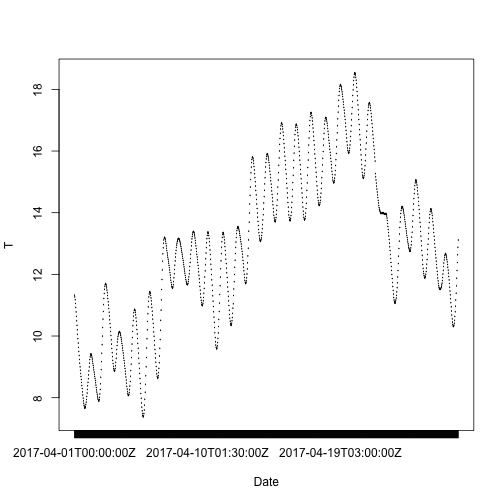
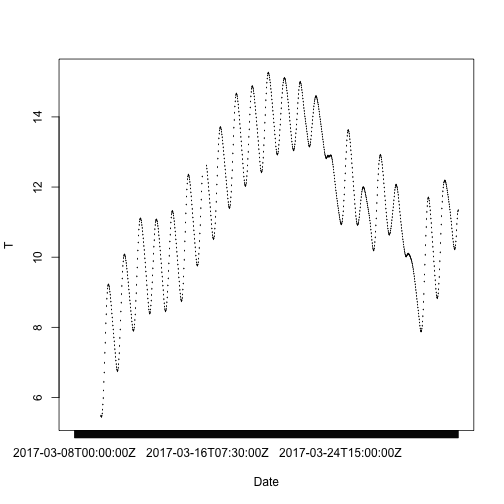
fix for basic v expanded in soil data

diff --git a/_posts/NEON-API/2017-07-23-NEON_API_ESA_2017.md b/_posts/NEON-API/2017-07-23-NEON_API_ESA_2017.md
@@ -130,7 +130,7 @@ JSON-formatted data returned by APIs:
     req
 
     ## Response [http://data.neonscience.org/api/v0/products/DP1.10003.001]
-    ##   Date: 2017-08-04 20:45
+    ##   Date: 2017-08-04 22:32
     ##   Status: 200
     ##   Content-Type: application/json;charset=UTF-8
     ##   Size: 7.18 kB
@@ -779,21 +779,21 @@ available at the Woodworth (WOOD) site.
     ## 14   7280
     ## 15   2553
     ##                                                                                                                                                                                                                                                                                                                                                                                                                                                                                   url
-    ## 1                          https://neon-prod-pub-1.s3.data.neonscience.org/NEON.DOM.SITE.DP1.10003.001/PROV/WOOD/20150701T000000--20150801T000000/basic/NEON.D09.WOOD.DP1.10003.001.variables.20170720T182547Z.csv?X-Amz-Algorithm=AWS4-HMAC-SHA256&X-Amz-Date=20170804T204554Z&X-Amz-SignedHeaders=host&X-Amz-Expires=3600&X-Amz-Credential=pub-internal-read%2F20170804%2Fdata%2Fs3%2Faws4_request&X-Amz-Signature=22fc3308d56758b4a766dc561a4748604bc23db5be45b475355d19817d1fd42f
-    ## 2        https://neon-prod-pub-1.s3.data.neonscience.org/NEON.DOM.SITE.DP1.10003.001/PROV/WOOD/20150701T000000--20150801T000000/basic/NEON.D09.WOOD.DP1.10003.001.brd_countdata.2015-07.basic.20170720T182547Z.csv?X-Amz-Algorithm=AWS4-HMAC-SHA256&X-Amz-Date=20170804T204554Z&X-Amz-SignedHeaders=host&X-Amz-Expires=3599&X-Amz-Credential=pub-internal-read%2F20170804%2Fdata%2Fs3%2Faws4_request&X-Amz-Signature=9e0f2215be001f8547a8e01a040e18956c781c38f863164bd465faca5c45a275
-    ## 3                                                       https://neon-prod-pub-1.s3.data.neonscience.org/NEON.DOM.SITE.DP1.10003.001/PROV/WOOD/20150701T000000--20150801T000000/basic/NEON.DP1.10003.001_readme.txt?X-Amz-Algorithm=AWS4-HMAC-SHA256&X-Amz-Date=20170804T204554Z&X-Amz-SignedHeaders=host&X-Amz-Expires=3600&X-Amz-Credential=pub-internal-read%2F20170804%2Fdata%2Fs3%2Faws4_request&X-Amz-Signature=415c3028d7a85cffb369eedbeeffbb647e0a1f75068184baa55d41460fc30689
-    ## 4                         https://neon-prod-pub-1.s3.data.neonscience.org/NEON.DOM.SITE.DP1.10003.001/PROV/WOOD/20150701T000000--20150801T000000/basic/NEON.D09.WOOD.DP0.10003.001.validation.20170720T182547Z.csv?X-Amz-Algorithm=AWS4-HMAC-SHA256&X-Amz-Date=20170804T204554Z&X-Amz-SignedHeaders=host&X-Amz-Expires=3600&X-Amz-Credential=pub-internal-read%2F20170804%2Fdata%2Fs3%2Faws4_request&X-Amz-Signature=59d1bd8c23fd48e8312ca9b5803162231f447885438f60bb7db4d6a272a005c3
-    ## 5         https://neon-prod-pub-1.s3.data.neonscience.org/NEON.DOM.SITE.DP1.10003.001/PROV/WOOD/20150701T000000--20150801T000000/basic/NEON.D09.WOOD.DP1.10003.001.brd_perpoint.2015-07.basic.20170720T182547Z.csv?X-Amz-Algorithm=AWS4-HMAC-SHA256&X-Amz-Date=20170804T204554Z&X-Amz-SignedHeaders=host&X-Amz-Expires=3600&X-Amz-Credential=pub-internal-read%2F20170804%2Fdata%2Fs3%2Faws4_request&X-Amz-Signature=44349a6909fe4abfbb7848798d3c2f62a7e35e2eb3e5d651faf5c53c77dfaebf
-    ## 6                                   https://neon-prod-pub-1.s3.data.neonscience.org/NEON.DOM.SITE.DP1.10003.001/PROV/WOOD/20150701T000000--20150801T000000/basic/NEON.D09.WOOD.DP1.10003.001.20150101-20160613.xml?X-Amz-Algorithm=AWS4-HMAC-SHA256&X-Amz-Date=20170804T204554Z&X-Amz-SignedHeaders=host&X-Amz-Expires=3600&X-Amz-Credential=pub-internal-read%2F20170804%2Fdata%2Fs3%2Faws4_request&X-Amz-Signature=f3d6766bcd43e7be4287c479160e61374b8f11f586014243ebeb21902e192d66
-    ## 7                      https://neon-prod-pub-1.s3.data.neonscience.org/NEON.DOM.SITE.DP1.10003.001/PROV/WOOD/20150701T000000--20150801T000000/basic/NEON.D09.WOOD.DP1.10003.001.2015-07.basic.20170720T182547Z.zip?X-Amz-Algorithm=AWS4-HMAC-SHA256&X-Amz-Date=20170804T204554Z&X-Amz-SignedHeaders=host&X-Amz-Expires=3600&X-Amz-Credential=pub-internal-read%2F20170804%2Fdata%2Fs3%2Faws4_request&X-Amz-Signature=2c786d5af88065f3cb5f6e3c1205af1366aa445b70ca5cb0109b7730bda4fafe
-    ## 8                      https://neon-prod-pub-1.s3.data.neonscience.org/NEON.DOM.SITE.DP1.10003.001/PROV/WOOD/20150701T000000--20150801T000000/expanded/NEON.D09.WOOD.DP0.10003.001.validation.20170720T182547Z.csv?X-Amz-Algorithm=AWS4-HMAC-SHA256&X-Amz-Date=20170804T204554Z&X-Amz-SignedHeaders=host&X-Amz-Expires=3600&X-Amz-Credential=pub-internal-read%2F20170804%2Fdata%2Fs3%2Faws4_request&X-Amz-Signature=17e668e889a93b502e7c0e96e9b3e0ebd18d9b364b84ed60a0e42eaef14618f1
-    ## 9  https://neon-prod-pub-1.s3.data.neonscience.org/NEON.DOM.SITE.DP1.10003.001/PROV/WOOD/20150701T000000--20150801T000000/expanded/NEON.D09.WOOD.DP1.10003.001.brd_countdata.2015-07.expanded.20170720T182547Z.csv?X-Amz-Algorithm=AWS4-HMAC-SHA256&X-Amz-Date=20170804T204554Z&X-Amz-SignedHeaders=host&X-Amz-Expires=3600&X-Amz-Credential=pub-internal-read%2F20170804%2Fdata%2Fs3%2Faws4_request&X-Amz-Signature=1f3f5b7ca66bbb406fa8c98370117722ca271955c55414542a6db7b7a09744a1
-    ## 10                               https://neon-prod-pub-1.s3.data.neonscience.org/NEON.DOM.SITE.DP1.10003.001/PROV/WOOD/20150701T000000--20150801T000000/expanded/NEON.D09.WOOD.DP1.10003.001.20150101-20160613.xml?X-Amz-Algorithm=AWS4-HMAC-SHA256&X-Amz-Date=20170804T204554Z&X-Amz-SignedHeaders=host&X-Amz-Expires=3599&X-Amz-Credential=pub-internal-read%2F20170804%2Fdata%2Fs3%2Faws4_request&X-Amz-Signature=d29055b039cbafdd4633aa05e35f886f6dd96586e55072c8def7d503be04c9e7
-    ## 11               https://neon-prod-pub-1.s3.data.neonscience.org/NEON.DOM.SITE.DP1.10003.001/PROV/WOOD/20150701T000000--20150801T000000/expanded/NEON.D09.WOOD.DP1.10003.001.2015-07.expanded.20170720T182547Z.zip?X-Amz-Algorithm=AWS4-HMAC-SHA256&X-Amz-Date=20170804T204554Z&X-Amz-SignedHeaders=host&X-Amz-Expires=3600&X-Amz-Credential=pub-internal-read%2F20170804%2Fdata%2Fs3%2Faws4_request&X-Amz-Signature=c35f564035a2136b2f577e22f37e2b29fef4755cc0641c6eed0576c6b3eb7980
-    ## 12  https://neon-prod-pub-1.s3.data.neonscience.org/NEON.DOM.SITE.DP1.10003.001/PROV/WOOD/20150701T000000--20150801T000000/expanded/NEON.D09.WOOD.DP1.10003.001.brd_perpoint.2015-07.expanded.20170720T182547Z.csv?X-Amz-Algorithm=AWS4-HMAC-SHA256&X-Amz-Date=20170804T204554Z&X-Amz-SignedHeaders=host&X-Amz-Expires=3600&X-Amz-Credential=pub-internal-read%2F20170804%2Fdata%2Fs3%2Faws4_request&X-Amz-Signature=0fcf6d548d61b73e3c979b25711ffbda67c9956e1df48cb1bd1e7a07679daa5c
-    ## 13                                                   https://neon-prod-pub-1.s3.data.neonscience.org/NEON.DOM.SITE.DP1.10003.001/PROV/WOOD/20150701T000000--20150801T000000/expanded/NEON.DP1.10003.001_readme.txt?X-Amz-Algorithm=AWS4-HMAC-SHA256&X-Amz-Date=20170804T204554Z&X-Amz-SignedHeaders=host&X-Amz-Expires=3600&X-Amz-Credential=pub-internal-read%2F20170804%2Fdata%2Fs3%2Faws4_request&X-Amz-Signature=c8020c93a5125aa5c8e3fc031b6cda708acc5fb368f5d1f9394f23677ada47ac
-    ## 14                      https://neon-prod-pub-1.s3.data.neonscience.org/NEON.DOM.SITE.DP1.10003.001/PROV/WOOD/20150701T000000--20150801T000000/expanded/NEON.D09.WOOD.DP1.10003.001.variables.20170720T182547Z.csv?X-Amz-Algorithm=AWS4-HMAC-SHA256&X-Amz-Date=20170804T204554Z&X-Amz-SignedHeaders=host&X-Amz-Expires=3600&X-Amz-Credential=pub-internal-read%2F20170804%2Fdata%2Fs3%2Faws4_request&X-Amz-Signature=a1276cba5d85ecee1ac0be0d619b9ceff297ae533fe91cdac88c54e902ef7912
-    ## 15                  https://neon-prod-pub-1.s3.data.neonscience.org/NEON.DOM.SITE.DP1.10003.001/PROV/WOOD/20150701T000000--20150801T000000/expanded/NEON.Bird%20Conservancy%20of%20the%20Rockies.brd_personnel.csv?X-Amz-Algorithm=AWS4-HMAC-SHA256&X-Amz-Date=20170804T204554Z&X-Amz-SignedHeaders=host&X-Amz-Expires=3600&X-Amz-Credential=pub-internal-read%2F20170804%2Fdata%2Fs3%2Faws4_request&X-Amz-Signature=c399880462d747644765186b57cabccb7f66d0661e36e18d4d33d80f8952b663
+    ## 1                          https://neon-prod-pub-1.s3.data.neonscience.org/NEON.DOM.SITE.DP1.10003.001/PROV/WOOD/20150701T000000--20150801T000000/basic/NEON.D09.WOOD.DP1.10003.001.variables.20170720T182547Z.csv?X-Amz-Algorithm=AWS4-HMAC-SHA256&X-Amz-Date=20170804T223204Z&X-Amz-SignedHeaders=host&X-Amz-Expires=3600&X-Amz-Credential=pub-internal-read%2F20170804%2Fdata%2Fs3%2Faws4_request&X-Amz-Signature=915fd75066bedd397cd7224bde6f8875367f94d72a6b4e5c1a6cbef38248745f
+    ## 2        https://neon-prod-pub-1.s3.data.neonscience.org/NEON.DOM.SITE.DP1.10003.001/PROV/WOOD/20150701T000000--20150801T000000/basic/NEON.D09.WOOD.DP1.10003.001.brd_countdata.2015-07.basic.20170720T182547Z.csv?X-Amz-Algorithm=AWS4-HMAC-SHA256&X-Amz-Date=20170804T223204Z&X-Amz-SignedHeaders=host&X-Amz-Expires=3600&X-Amz-Credential=pub-internal-read%2F20170804%2Fdata%2Fs3%2Faws4_request&X-Amz-Signature=6181bf1ea9f1cec4cf3e6aee3e47666fffa0629c1a4ef19265d5aae67f4d4691
+    ## 3                                                       https://neon-prod-pub-1.s3.data.neonscience.org/NEON.DOM.SITE.DP1.10003.001/PROV/WOOD/20150701T000000--20150801T000000/basic/NEON.DP1.10003.001_readme.txt?X-Amz-Algorithm=AWS4-HMAC-SHA256&X-Amz-Date=20170804T223204Z&X-Amz-SignedHeaders=host&X-Amz-Expires=3600&X-Amz-Credential=pub-internal-read%2F20170804%2Fdata%2Fs3%2Faws4_request&X-Amz-Signature=016ab64cb35dbee17612b728010aeb7f9156a3593325338be53ef6762c6ece56
+    ## 4                         https://neon-prod-pub-1.s3.data.neonscience.org/NEON.DOM.SITE.DP1.10003.001/PROV/WOOD/20150701T000000--20150801T000000/basic/NEON.D09.WOOD.DP0.10003.001.validation.20170720T182547Z.csv?X-Amz-Algorithm=AWS4-HMAC-SHA256&X-Amz-Date=20170804T223204Z&X-Amz-SignedHeaders=host&X-Amz-Expires=3600&X-Amz-Credential=pub-internal-read%2F20170804%2Fdata%2Fs3%2Faws4_request&X-Amz-Signature=fa8266d2e972033294bb31a528692ab0608f2195ec98db8b206f4d8184edda9e
+    ## 5         https://neon-prod-pub-1.s3.data.neonscience.org/NEON.DOM.SITE.DP1.10003.001/PROV/WOOD/20150701T000000--20150801T000000/basic/NEON.D09.WOOD.DP1.10003.001.brd_perpoint.2015-07.basic.20170720T182547Z.csv?X-Amz-Algorithm=AWS4-HMAC-SHA256&X-Amz-Date=20170804T223204Z&X-Amz-SignedHeaders=host&X-Amz-Expires=3600&X-Amz-Credential=pub-internal-read%2F20170804%2Fdata%2Fs3%2Faws4_request&X-Amz-Signature=74f39c56cd999e8b20f5cc56213b6b05c4c7333ec19f7b3ad6eebaa24d9819af
+    ## 6                                   https://neon-prod-pub-1.s3.data.neonscience.org/NEON.DOM.SITE.DP1.10003.001/PROV/WOOD/20150701T000000--20150801T000000/basic/NEON.D09.WOOD.DP1.10003.001.20150101-20160613.xml?X-Amz-Algorithm=AWS4-HMAC-SHA256&X-Amz-Date=20170804T223204Z&X-Amz-SignedHeaders=host&X-Amz-Expires=3600&X-Amz-Credential=pub-internal-read%2F20170804%2Fdata%2Fs3%2Faws4_request&X-Amz-Signature=f45ba2caafdaa3e284a6eef1308a5ec04e853f3d89a27576875373d5903531fc
+    ## 7                      https://neon-prod-pub-1.s3.data.neonscience.org/NEON.DOM.SITE.DP1.10003.001/PROV/WOOD/20150701T000000--20150801T000000/basic/NEON.D09.WOOD.DP1.10003.001.2015-07.basic.20170720T182547Z.zip?X-Amz-Algorithm=AWS4-HMAC-SHA256&X-Amz-Date=20170804T223204Z&X-Amz-SignedHeaders=host&X-Amz-Expires=3600&X-Amz-Credential=pub-internal-read%2F20170804%2Fdata%2Fs3%2Faws4_request&X-Amz-Signature=d0fb89ad62c240ffc1b33caa7bf0a7b5b1909798193b835731e6f8ddacecc3e3
+    ## 8                      https://neon-prod-pub-1.s3.data.neonscience.org/NEON.DOM.SITE.DP1.10003.001/PROV/WOOD/20150701T000000--20150801T000000/expanded/NEON.D09.WOOD.DP0.10003.001.validation.20170720T182547Z.csv?X-Amz-Algorithm=AWS4-HMAC-SHA256&X-Amz-Date=20170804T223204Z&X-Amz-SignedHeaders=host&X-Amz-Expires=3600&X-Amz-Credential=pub-internal-read%2F20170804%2Fdata%2Fs3%2Faws4_request&X-Amz-Signature=75b38eb3868f0fde809d0161eae648e99bc6c203e54f3a13512a57c31ce8e860
+    ## 9  https://neon-prod-pub-1.s3.data.neonscience.org/NEON.DOM.SITE.DP1.10003.001/PROV/WOOD/20150701T000000--20150801T000000/expanded/NEON.D09.WOOD.DP1.10003.001.brd_countdata.2015-07.expanded.20170720T182547Z.csv?X-Amz-Algorithm=AWS4-HMAC-SHA256&X-Amz-Date=20170804T223204Z&X-Amz-SignedHeaders=host&X-Amz-Expires=3600&X-Amz-Credential=pub-internal-read%2F20170804%2Fdata%2Fs3%2Faws4_request&X-Amz-Signature=ec96d0b8f028c34fc7010958ce892063c2dd628542146147b068e21a00678eb1
+    ## 10                               https://neon-prod-pub-1.s3.data.neonscience.org/NEON.DOM.SITE.DP1.10003.001/PROV/WOOD/20150701T000000--20150801T000000/expanded/NEON.D09.WOOD.DP1.10003.001.20150101-20160613.xml?X-Amz-Algorithm=AWS4-HMAC-SHA256&X-Amz-Date=20170804T223204Z&X-Amz-SignedHeaders=host&X-Amz-Expires=3600&X-Amz-Credential=pub-internal-read%2F20170804%2Fdata%2Fs3%2Faws4_request&X-Amz-Signature=cb948443ab45f0933f145859ab61b62c50c70efe3d11557a9077e9dc80f38924
+    ## 11               https://neon-prod-pub-1.s3.data.neonscience.org/NEON.DOM.SITE.DP1.10003.001/PROV/WOOD/20150701T000000--20150801T000000/expanded/NEON.D09.WOOD.DP1.10003.001.2015-07.expanded.20170720T182547Z.zip?X-Amz-Algorithm=AWS4-HMAC-SHA256&X-Amz-Date=20170804T223204Z&X-Amz-SignedHeaders=host&X-Amz-Expires=3600&X-Amz-Credential=pub-internal-read%2F20170804%2Fdata%2Fs3%2Faws4_request&X-Amz-Signature=ff2ab46e7518d7cc3aa2903acd28575f8ebe8290ee291796583d0f3c5d70aef5
+    ## 12  https://neon-prod-pub-1.s3.data.neonscience.org/NEON.DOM.SITE.DP1.10003.001/PROV/WOOD/20150701T000000--20150801T000000/expanded/NEON.D09.WOOD.DP1.10003.001.brd_perpoint.2015-07.expanded.20170720T182547Z.csv?X-Amz-Algorithm=AWS4-HMAC-SHA256&X-Amz-Date=20170804T223204Z&X-Amz-SignedHeaders=host&X-Amz-Expires=3600&X-Amz-Credential=pub-internal-read%2F20170804%2Fdata%2Fs3%2Faws4_request&X-Amz-Signature=c0819253603bacab5342be09826402de8b656288499c798e2407c2bff9981f1b
+    ## 13                                                   https://neon-prod-pub-1.s3.data.neonscience.org/NEON.DOM.SITE.DP1.10003.001/PROV/WOOD/20150701T000000--20150801T000000/expanded/NEON.DP1.10003.001_readme.txt?X-Amz-Algorithm=AWS4-HMAC-SHA256&X-Amz-Date=20170804T223204Z&X-Amz-SignedHeaders=host&X-Amz-Expires=3599&X-Amz-Credential=pub-internal-read%2F20170804%2Fdata%2Fs3%2Faws4_request&X-Amz-Signature=d68f9aeb21f4dcafbd42811be908330c60794a07a1b3d576b2622c7075c5a0f4
+    ## 14                      https://neon-prod-pub-1.s3.data.neonscience.org/NEON.DOM.SITE.DP1.10003.001/PROV/WOOD/20150701T000000--20150801T000000/expanded/NEON.D09.WOOD.DP1.10003.001.variables.20170720T182547Z.csv?X-Amz-Algorithm=AWS4-HMAC-SHA256&X-Amz-Date=20170804T223204Z&X-Amz-SignedHeaders=host&X-Amz-Expires=3600&X-Amz-Credential=pub-internal-read%2F20170804%2Fdata%2Fs3%2Faws4_request&X-Amz-Signature=805c79fff121432c61f2b37b6321c37567806cb5f0a0a6334f5aeb10ccc13912
+    ## 15                  https://neon-prod-pub-1.s3.data.neonscience.org/NEON.DOM.SITE.DP1.10003.001/PROV/WOOD/20150701T000000--20150801T000000/expanded/NEON.Bird%20Conservancy%20of%20the%20Rockies.brd_personnel.csv?X-Amz-Algorithm=AWS4-HMAC-SHA256&X-Amz-Date=20170804T223204Z&X-Amz-SignedHeaders=host&X-Amz-Expires=3600&X-Amz-Credential=pub-internal-read%2F20170804%2Fdata%2Fs3%2Faws4_request&X-Amz-Signature=1a78ccb32795feef690bd3dffe2bcd0edd5dd9e3d58c9040eb787518ae4a1f14
 
 And now we have the names of the files available for this site and 
 month, and URLs where we can get the files. We'll use 
@@ -870,110 +870,198 @@ Just to prove the files we pulled have actual data in them, a quick graphic:
 
 ## Instrumentation data
 The process is essentially the same for sensor data. We'll do the same series of 
-queries for Soil temperature, DP1.00041.001, and get data from Moab in April.
+queries for Soil temperature, DP1.00041.001, and get data from Moab in March.
 
 
     req.soil <- GET("http://data.neonscience.org/api/v0/products/DP1.00041.001")
     avail.soil <- fromJSON(content(req.soil, as="text"), simplifyDataFrame=T, flatten=T)
     temp.urls <- unlist(avail.soil$data$siteCodes$availableDataUrls)
-    tmp <- GET(temp.urls[grep("MOAB/2017-04", temp.urls)])
-
-    ## Error: length(url) == 1 is not TRUE
-
+    tmp <- GET(temp.urls[grep("MOAB/2017-03", temp.urls)])
     tmp.files <- fromJSON(content(tmp, as="text"))
     tmp.files$data$files$name
 
-    ##  [1] "NEON.D13.MOAB.DP1.00041.001.00000.005.509.001.ST_1_minute.csv" 
-    ##  [2] "NEON.D13.MOAB.DP1.00041.001.00000.005.504.030.ST_30_minute.csv"
-    ##  [3] "NEON.D13.MOAB.DP1.00041.001.00000.003.508.001.ST_1_minute.csv" 
-    ##  [4] "NEON.D13.MOAB.DP1.00041.001.00000.004.507.030.ST_30_minute.csv"
-    ##  [5] "NEON.D13.MOAB.DP1.00041.001.00000.003.501.030.ST_30_minute.csv"
-    ##  [6] "NEON.D13.MOAB.DP1.00041.001.00000.002.509.001.ST_1_minute.csv" 
-    ##  [7] "NEON.D13.MOAB.DP1.00041.001.00000.004.502.030.ST_30_minute.csv"
-    ##  [8] "NEON.D13.MOAB.DP1.00041.001.00000.002.507.001.ST_1_minute.csv" 
-    ##  [9] "NEON.D13.MOAB.DP1.00041.001.00000.004.504.030.ST_30_minute.csv"
-    ## [10] "NEON.D13.MOAB.DP1.00041.001.00000.004.508.030.ST_30_minute.csv"
-    ## [11] "NEON.D13.MOAB.DP1.00041.001.00000.004.503.030.ST_30_minute.csv"
-    ## [12] "NEON.D13.MOAB.DP1.00041.001.00000.003.504.030.ST_30_minute.csv"
-    ## [13] "NEON.D13.MOAB.DP1.00041.001.00000.002.507.030.ST_30_minute.csv"
-    ## [14] "NEON.D13.MOAB.DP1.00041.001.00000.003.502.030.ST_30_minute.csv"
-    ## [15] "NEON.D13.MOAB.DP1.00041.001.00000.001.509.030.ST_30_minute.csv"
-    ## [16] "NEON.D13.MOAB.DP1.00041.001.00000.005.508.001.ST_1_minute.csv" 
-    ## [17] "NEON.D13.MOAB.DP1.00041.001.00000.004.506.030.ST_30_minute.csv"
-    ## [18] "NEON.D13.MOAB.DP1.00041.001.00000.003.506.001.ST_1_minute.csv" 
-    ## [19] "NEON.D13.MOAB.DP1.00041.001.00000.003.504.001.ST_1_minute.csv" 
-    ## [20] "NEON.D13.MOAB.DP1.00041.001.00000.003.501.001.ST_1_minute.csv" 
-    ## [21] "NEON.D13.MOAB.DP1.00041.001.00000.004.506.001.ST_1_minute.csv" 
-    ## [22] "NEON.D13.MOAB.DP1.00041.001.00000.003.506.030.ST_30_minute.csv"
-    ## [23] "NEON.D13.MOAB.DP1.00041.001.00000.004.501.030.ST_30_minute.csv"
-    ## [24] "NEON.D13.MOAB.DP1.00041.001.00000.001.504.030.ST_30_minute.csv"
-    ## [25] "NEON.D13.MOAB.DP1.00041.001.00000.005.504.001.ST_1_minute.csv" 
-    ## [26] "NEON.D13.MOAB.DP1.00041.001.20170401-20170501.xml"             
-    ## [27] "NEON.D13.MOAB.DP1.00041.001.00000.001.507.030.ST_30_minute.csv"
-    ## [28] "NEON.D13.MOAB.DP1.00041.001.00000.003.509.030.ST_30_minute.csv"
-    ## [29] "NEON.D13.MOAB.DP1.00041.001.00000.004.504.001.ST_1_minute.csv" 
-    ## [30] "NEON.D13.MOAB.DP1.00041.001.00000.002.506.001.ST_1_minute.csv" 
-    ## [31] "NEON.D13.MOAB.DP1.00041.001.00000.003.502.001.ST_1_minute.csv" 
-    ## [32] "NEON.D13.MOAB.DP1.00041.001.00000.003.509.001.ST_1_minute.csv" 
-    ## [33] "NEON.D13.MOAB.DP1.00041.001.00000.002.509.030.ST_30_minute.csv"
-    ## [34] "NEON.D13.MOAB.DP1.00041.001.00000.001.501.030.ST_30_minute.csv"
-    ## [35] "NEON.D13.MOAB.DP1.00041.001.00000.004.505.030.ST_30_minute.csv"
-    ## [36] "NEON.D13.MOAB.DP1.00041.001.00000.005.503.030.ST_30_minute.csv"
-    ## [37] "NEON.D13.MOAB.DP1.00041.001.00000.003.503.001.ST_1_minute.csv" 
-    ## [38] "NEON.D13.MOAB.DP1.00041.001.00000.003.507.001.ST_1_minute.csv" 
-    ## [39] "NEON.D13.MOAB.DP1.00041.001.00000.002.505.030.ST_30_minute.csv"
-    ## [40] "NEON.D13.MOAB.DP1.00041.001.00000.002.508.001.ST_1_minute.csv" 
-    ## [41] "NEON.D13.MOAB.DP1.00041.001.00000.001.507.001.ST_1_minute.csv" 
-    ## [42] "NEON.D13.MOAB.DP1.00041.001.00000.002.504.030.ST_30_minute.csv"
-    ## [43] "NEON.D13.MOAB.DP1.00041.001.00000.005.502.001.ST_1_minute.csv" 
-    ## [44] "NEON.D13.MOAB.DP1.00041.001.00000.002.502.030.ST_30_minute.csv"
-    ## [45] "NEON.D13.MOAB.DP1.00041.001.00000.002.503.030.ST_30_minute.csv"
-    ## [46] "NEON.D13.MOAB.DP1.00041.001.00000.004.509.030.ST_30_minute.csv"
-    ## [47] "NEON.D13.MOAB.DP1.00041.001.00000.005.502.030.ST_30_minute.csv"
-    ## [48] "NEON.D13.MOAB.DP1.00041.001.00000.002.501.030.ST_30_minute.csv"
-    ## [49] "NEON.D13.MOAB.DP1.00041.001.00000.003.505.030.ST_30_minute.csv"
-    ## [50] "NEON.D13.MOAB.DP1.00041.001.00000.002.506.030.ST_30_minute.csv"
-    ## [51] "NEON.D13.MOAB.DP1.00041.001.00000.003.505.001.ST_1_minute.csv" 
-    ## [52] "NEON.D13.MOAB.DP1.00041.001.00000.001.508.001.ST_1_minute.csv" 
-    ## [53] "NEON.D13.MOAB.DP1.00041.001.00000.001.505.001.ST_1_minute.csv" 
-    ## [54] "NEON.D13.MOAB.DP1.00041.001.00000.004.509.001.ST_1_minute.csv" 
-    ## [55] "NEON.D13.MOAB.DP1.00041.001.00000.002.503.001.ST_1_minute.csv" 
-    ## [56] "NEON.D13.MOAB.DP1.00041.001.00000.001.503.030.ST_30_minute.csv"
-    ## [57] "NEON.D13.MOAB.DP1.00041.001.00000.005.505.001.ST_1_minute.csv" 
-    ## [58] "NEON.D13.MOAB.DP1.00041.001.00000.005.508.030.ST_30_minute.csv"
-    ## [59] "NEON.D13.MOAB.DP1.00041.001.00000.005.506.030.ST_30_minute.csv"
-    ## [60] "NEON.D13.MOAB.DP1.00041.001.00000.004.507.001.ST_1_minute.csv" 
-    ## [61] "NEON.D13.MOAB.DP1.00041.001.00000.002.501.001.ST_1_minute.csv" 
-    ## [62] "NEON.D13.MOAB.DP1.00041.001.00000.005.503.001.ST_1_minute.csv" 
-    ## [63] "NEON.D13.MOAB.DP1.00041.001.00000.001.502.030.ST_30_minute.csv"
-    ## [64] "NEON.D13.MOAB.DP1.00041.001.00000.005.501.030.ST_30_minute.csv"
-    ## [65] "NEON.D13.MOAB.DP1.00041.001.00000.002.508.030.ST_30_minute.csv"
-    ## [66] "NEON.D13.MOAB.DP1.00041.001.00000.001.505.030.ST_30_minute.csv"
-    ## [67] "NEON.D13.MOAB.DP1.00041.001.00000.004.505.001.ST_1_minute.csv" 
-    ## [68] "NEON.D13.MOAB.DP1.00041.001.00000.005.501.001.ST_1_minute.csv" 
-    ## [69] "NEON.D13.MOAB.DP1.00041.001.00000.004.503.001.ST_1_minute.csv" 
-    ## [70] "NEON.D13.MOAB.DP1.00041.001.00000.003.507.030.ST_30_minute.csv"
-    ## [71] "NEON.D13.MOAB.DP1.00041.001.00000.002.502.001.ST_1_minute.csv" 
-    ## [72] "NEON.D13.MOAB.DP1.00041.001.00000.002.505.001.ST_1_minute.csv" 
-    ## [73] "NEON.D13.MOAB.DP1.00041.001.00000.004.501.001.ST_1_minute.csv" 
-    ## [74] "NEON.D13.MOAB.DP1.00041.001.00000.005.506.001.ST_1_minute.csv" 
-    ## [75] "NEON.D13.MOAB.DP1.00041.001.00000.001.503.001.ST_1_minute.csv" 
-    ## [76] "NEON.D13.MOAB.DP1.00041.001.00000.002.504.001.ST_1_minute.csv" 
-    ## [77] "NEON.D13.MOAB.DP1.00041.001.00000.003.508.030.ST_30_minute.csv"
-    ## [78] "NEON.D13.MOAB.DP1.00041.001.00000.004.502.001.ST_1_minute.csv" 
-    ## [79] "NEON.D13.MOAB.DP1.00041.001.00000.005.507.001.ST_1_minute.csv" 
-    ## [80] "NEON.D13.MOAB.DP1.00041.001.00000.004.508.001.ST_1_minute.csv" 
-    ## [81] "NEON.D13.MOAB.DP1.00041.001.00000.005.507.030.ST_30_minute.csv"
-    ## [82] "NEON.D13.MOAB.DP1.00041.001.00000.005.509.030.ST_30_minute.csv"
-    ## [83] "NEON.D13.MOAB.DP1.00041.001.00000.001.508.030.ST_30_minute.csv"
-    ## [84] "NEON.D13.MOAB.DP1.00041.001.00000.005.505.030.ST_30_minute.csv"
-    ## [85] "NEON.D13.MOAB.DP1.00041.001.00000.001.504.001.ST_1_minute.csv" 
-    ## [86] "NEON.D13.MOAB.DP1.00041.001.00000.001.502.001.ST_1_minute.csv" 
-    ## [87] "NEON.D13.MOAB.DP1.00041.001.00000.003.503.030.ST_30_minute.csv"
-    ## [88] "NEON.D13.MOAB.DP1.00041.001.00000.001.509.001.ST_1_minute.csv" 
-    ## [89] "NEON.D13.MOAB.DP1.00041.001.00000.001.506.030.ST_30_minute.csv"
-    ## [90] "NEON.D13.MOAB.DP1.00041.001.00000.001.501.001.ST_1_minute.csv" 
-    ## [91] "NEON.D13.MOAB.DP1.00041.001.00000.001.506.001.ST_1_minute.csv"
+    ##   [1] "NEON.D13.MOAB.DP1.00041.001.00000.005.509.001.ST_1_minute.csv" 
+    ##   [2] "NEON.D13.MOAB.DP1.00041.001.00000.005.504.030.ST_30_minute.csv"
+    ##   [3] "NEON.D13.MOAB.DP1.00041.001.00000.003.508.001.ST_1_minute.csv" 
+    ##   [4] "NEON.D13.MOAB.DP1.00041.001.00000.004.507.030.ST_30_minute.csv"
+    ##   [5] "NEON.D13.MOAB.DP1.00041.001.00000.003.501.030.ST_30_minute.csv"
+    ##   [6] "NEON.D13.MOAB.DP1.00041.001.00000.002.509.001.ST_1_minute.csv" 
+    ##   [7] "NEON.D13.MOAB.DP1.00041.001.00000.004.502.030.ST_30_minute.csv"
+    ##   [8] "NEON.D13.MOAB.DP1.00041.001.00000.002.507.001.ST_1_minute.csv" 
+    ##   [9] "NEON.D13.MOAB.DP1.00041.001.00000.004.504.030.ST_30_minute.csv"
+    ##  [10] "NEON.D13.MOAB.DP1.00041.001.00000.004.508.030.ST_30_minute.csv"
+    ##  [11] "NEON.D13.MOAB.DP1.00041.001.00000.004.503.030.ST_30_minute.csv"
+    ##  [12] "NEON.D13.MOAB.DP1.00041.001.00000.003.504.030.ST_30_minute.csv"
+    ##  [13] "NEON.D13.MOAB.DP1.00041.001.00000.002.507.030.ST_30_minute.csv"
+    ##  [14] "NEON.D13.MOAB.DP1.00041.001.00000.003.502.030.ST_30_minute.csv"
+    ##  [15] "NEON.D13.MOAB.DP1.00041.001.00000.001.509.030.ST_30_minute.csv"
+    ##  [16] "NEON.D13.MOAB.DP1.00041.001.00000.005.508.001.ST_1_minute.csv" 
+    ##  [17] "NEON.D13.MOAB.DP1.00041.001.00000.004.506.030.ST_30_minute.csv"
+    ##  [18] "NEON.D13.MOAB.DP1.00041.001.00000.003.506.001.ST_1_minute.csv" 
+    ##  [19] "NEON.D13.MOAB.DP1.00041.001.00000.003.504.001.ST_1_minute.csv" 
+    ##  [20] "NEON.D13.MOAB.DP1.00041.001.00000.003.501.001.ST_1_minute.csv" 
+    ##  [21] "NEON.D13.MOAB.DP1.00041.001.00000.004.506.001.ST_1_minute.csv" 
+    ##  [22] "NEON.D13.MOAB.DP1.00041.001.00000.003.506.030.ST_30_minute.csv"
+    ##  [23] "NEON.D13.MOAB.DP1.00041.001.00000.004.501.030.ST_30_minute.csv"
+    ##  [24] "NEON.D13.MOAB.DP1.00041.001.00000.001.504.030.ST_30_minute.csv"
+    ##  [25] "NEON.D13.MOAB.DP1.00041.001.00000.005.504.001.ST_1_minute.csv" 
+    ##  [26] "NEON.D13.MOAB.DP1.00041.001.00000.001.507.030.ST_30_minute.csv"
+    ##  [27] "NEON.D13.MOAB.DP1.00041.001.00000.003.509.030.ST_30_minute.csv"
+    ##  [28] "NEON.D13.MOAB.DP1.00041.001.00000.004.504.001.ST_1_minute.csv" 
+    ##  [29] "NEON.D13.MOAB.DP1.00041.001.00000.002.506.001.ST_1_minute.csv" 
+    ##  [30] "NEON.D13.MOAB.DP1.00041.001.00000.003.502.001.ST_1_minute.csv" 
+    ##  [31] "NEON.D13.MOAB.DP1.00041.001.00000.003.509.001.ST_1_minute.csv" 
+    ##  [32] "NEON.D13.MOAB.DP1.00041.001.00000.002.509.030.ST_30_minute.csv"
+    ##  [33] "NEON.D13.MOAB.DP1.00041.001.00000.001.501.030.ST_30_minute.csv"
+    ##  [34] "NEON.D13.MOAB.DP1.00041.001.00000.004.505.030.ST_30_minute.csv"
+    ##  [35] "NEON.D13.MOAB.DP1.00041.001.00000.005.503.030.ST_30_minute.csv"
+    ##  [36] "NEON.D13.MOAB.DP1.00041.001.00000.003.503.001.ST_1_minute.csv" 
+    ##  [37] "NEON.D13.MOAB.DP1.00041.001.00000.003.507.001.ST_1_minute.csv" 
+    ##  [38] "NEON.D13.MOAB.DP1.00041.001.00000.002.505.030.ST_30_minute.csv"
+    ##  [39] "NEON.D13.MOAB.DP1.00041.001.00000.002.508.001.ST_1_minute.csv" 
+    ##  [40] "NEON.D13.MOAB.DP1.00041.001.00000.001.507.001.ST_1_minute.csv" 
+    ##  [41] "NEON.D13.MOAB.DP1.00041.001.00000.002.504.030.ST_30_minute.csv"
+    ##  [42] "NEON.D13.MOAB.DP1.00041.001.20170308-20170401.xml"             
+    ##  [43] "NEON.D13.MOAB.DP1.00041.001.00000.005.502.001.ST_1_minute.csv" 
+    ##  [44] "NEON.D13.MOAB.DP1.00041.001.00000.002.502.030.ST_30_minute.csv"
+    ##  [45] "NEON.D13.MOAB.DP1.00041.001.00000.002.503.030.ST_30_minute.csv"
+    ##  [46] "NEON.D13.MOAB.DP1.00041.001.00000.004.509.030.ST_30_minute.csv"
+    ##  [47] "NEON.D13.MOAB.DP1.00041.001.00000.005.502.030.ST_30_minute.csv"
+    ##  [48] "NEON.D13.MOAB.DP1.00041.001.00000.002.501.030.ST_30_minute.csv"
+    ##  [49] "NEON.D13.MOAB.DP1.00041.001.00000.003.505.030.ST_30_minute.csv"
+    ##  [50] "NEON.D13.MOAB.DP1.00041.001.00000.002.506.030.ST_30_minute.csv"
+    ##  [51] "NEON.D13.MOAB.DP1.00041.001.00000.003.505.001.ST_1_minute.csv" 
+    ##  [52] "NEON.D13.MOAB.DP1.00041.001.00000.001.508.001.ST_1_minute.csv" 
+    ##  [53] "NEON.D13.MOAB.DP1.00041.001.00000.001.505.001.ST_1_minute.csv" 
+    ##  [54] "NEON.D13.MOAB.DP1.00041.001.00000.004.509.001.ST_1_minute.csv" 
+    ##  [55] "NEON.D13.MOAB.DP1.00041.001.00000.002.503.001.ST_1_minute.csv" 
+    ##  [56] "NEON.D13.MOAB.DP1.00041.001.00000.001.503.030.ST_30_minute.csv"
+    ##  [57] "NEON.D13.MOAB.DP1.00041.001.00000.005.505.001.ST_1_minute.csv" 
+    ##  [58] "NEON.D13.MOAB.DP1.00041.001.00000.005.508.030.ST_30_minute.csv"
+    ##  [59] "NEON.D13.MOAB.DP1.00041.001.00000.005.506.030.ST_30_minute.csv"
+    ##  [60] "NEON.D13.MOAB.DP1.00041.001.00000.004.507.001.ST_1_minute.csv" 
+    ##  [61] "NEON.D13.MOAB.DP1.00041.001.00000.002.501.001.ST_1_minute.csv" 
+    ##  [62] "NEON.D13.MOAB.DP1.00041.001.00000.005.503.001.ST_1_minute.csv" 
+    ##  [63] "NEON.D13.MOAB.DP1.00041.001.00000.001.502.030.ST_30_minute.csv"
+    ##  [64] "NEON.D13.MOAB.DP1.00041.001.00000.005.501.030.ST_30_minute.csv"
+    ##  [65] "NEON.D13.MOAB.DP1.00041.001.00000.002.508.030.ST_30_minute.csv"
+    ##  [66] "NEON.D13.MOAB.DP1.00041.001.00000.001.505.030.ST_30_minute.csv"
+    ##  [67] "NEON.D13.MOAB.DP1.00041.001.00000.004.505.001.ST_1_minute.csv" 
+    ##  [68] "NEON.D13.MOAB.DP1.00041.001.00000.005.501.001.ST_1_minute.csv" 
+    ##  [69] "NEON.D13.MOAB.DP1.00041.001.00000.004.503.001.ST_1_minute.csv" 
+    ##  [70] "NEON.D13.MOAB.DP1.00041.001.00000.003.507.030.ST_30_minute.csv"
+    ##  [71] "NEON.D13.MOAB.DP1.00041.001.00000.002.502.001.ST_1_minute.csv" 
+    ##  [72] "NEON.D13.MOAB.DP1.00041.001.00000.002.505.001.ST_1_minute.csv" 
+    ##  [73] "NEON.D13.MOAB.DP1.00041.001.00000.004.501.001.ST_1_minute.csv" 
+    ##  [74] "NEON.D13.MOAB.DP1.00041.001.00000.005.506.001.ST_1_minute.csv" 
+    ##  [75] "NEON.D13.MOAB.DP1.00041.001.00000.001.503.001.ST_1_minute.csv" 
+    ##  [76] "NEON.D13.MOAB.DP1.00041.001.00000.002.504.001.ST_1_minute.csv" 
+    ##  [77] "NEON.D13.MOAB.DP1.00041.001.00000.003.508.030.ST_30_minute.csv"
+    ##  [78] "NEON.D13.MOAB.DP1.00041.001.00000.004.502.001.ST_1_minute.csv" 
+    ##  [79] "NEON.D13.MOAB.DP1.00041.001.00000.005.507.001.ST_1_minute.csv" 
+    ##  [80] "NEON.D13.MOAB.DP1.00041.001.00000.004.508.001.ST_1_minute.csv" 
+    ##  [81] "NEON.D13.MOAB.DP1.00041.001.00000.005.507.030.ST_30_minute.csv"
+    ##  [82] "NEON.D13.MOAB.DP1.00041.001.00000.005.509.030.ST_30_minute.csv"
+    ##  [83] "NEON.D13.MOAB.DP1.00041.001.00000.001.508.030.ST_30_minute.csv"
+    ##  [84] "NEON.D13.MOAB.DP1.00041.001.00000.005.505.030.ST_30_minute.csv"
+    ##  [85] "NEON.D13.MOAB.DP1.00041.001.00000.001.504.001.ST_1_minute.csv" 
+    ##  [86] "NEON.D13.MOAB.DP1.00041.001.00000.001.502.001.ST_1_minute.csv" 
+    ##  [87] "NEON.D13.MOAB.DP1.00041.001.00000.003.503.030.ST_30_minute.csv"
+    ##  [88] "NEON.D13.MOAB.DP1.00041.001.00000.001.509.001.ST_1_minute.csv" 
+    ##  [89] "NEON.D13.MOAB.DP1.00041.001.00000.001.506.030.ST_30_minute.csv"
+    ##  [90] "NEON.D13.MOAB.DP1.00041.001.00000.001.501.001.ST_1_minute.csv" 
+    ##  [91] "NEON.D13.MOAB.DP1.00041.001.00000.001.506.001.ST_1_minute.csv" 
+    ##  [92] "NEON.D13.MOAB.DP1.00041.001.00000.005.509.001.ST_1_minute.csv" 
+    ##  [93] "NEON.D13.MOAB.DP1.00041.001.00000.005.504.030.ST_30_minute.csv"
+    ##  [94] "NEON.D13.MOAB.DP1.00041.001.00000.003.508.001.ST_1_minute.csv" 
+    ##  [95] "NEON.D13.MOAB.DP1.00041.001.00000.004.507.030.ST_30_minute.csv"
+    ##  [96] "NEON.D13.MOAB.DP1.00041.001.00000.003.501.030.ST_30_minute.csv"
+    ##  [97] "NEON.D13.MOAB.DP1.00041.001.00000.002.509.001.ST_1_minute.csv" 
+    ##  [98] "NEON.D13.MOAB.DP1.00041.001.00000.004.502.030.ST_30_minute.csv"
+    ##  [99] "NEON.D13.MOAB.DP1.00041.001.00000.002.507.001.ST_1_minute.csv" 
+    ## [100] "NEON.D13.MOAB.DP1.00041.001.00000.004.504.030.ST_30_minute.csv"
+    ## [101] "NEON.D13.MOAB.DP1.00041.001.00000.004.508.030.ST_30_minute.csv"
+    ## [102] "NEON.D13.MOAB.DP1.00041.001.00000.004.503.030.ST_30_minute.csv"
+    ## [103] "NEON.D13.MOAB.DP1.00041.001.00000.003.504.030.ST_30_minute.csv"
+    ## [104] "NEON.D13.MOAB.DP1.00041.001.00000.002.507.030.ST_30_minute.csv"
+    ## [105] "NEON.D13.MOAB.DP1.00041.001.00000.003.502.030.ST_30_minute.csv"
+    ## [106] "NEON.D13.MOAB.DP1.00041.001.00000.001.509.030.ST_30_minute.csv"
+    ## [107] "NEON.D13.MOAB.DP1.00041.001.00000.005.508.001.ST_1_minute.csv" 
+    ## [108] "NEON.D13.MOAB.DP1.00041.001.00000.004.506.030.ST_30_minute.csv"
+    ## [109] "NEON.D13.MOAB.DP1.00041.001.00000.003.506.001.ST_1_minute.csv" 
+    ## [110] "NEON.D13.MOAB.DP1.00041.001.00000.003.504.001.ST_1_minute.csv" 
+    ## [111] "NEON.D13.MOAB.DP1.00041.001.00000.003.501.001.ST_1_minute.csv" 
+    ## [112] "NEON.D13.MOAB.DP1.00041.001.00000.004.506.001.ST_1_minute.csv" 
+    ## [113] "NEON.D13.MOAB.DP1.00041.001.00000.003.506.030.ST_30_minute.csv"
+    ## [114] "NEON.D13.MOAB.DP1.00041.001.00000.004.501.030.ST_30_minute.csv"
+    ## [115] "NEON.D13.MOAB.DP1.00041.001.00000.001.504.030.ST_30_minute.csv"
+    ## [116] "NEON.D13.MOAB.DP1.00041.001.00000.005.504.001.ST_1_minute.csv" 
+    ## [117] "NEON.D13.MOAB.DP1.00041.001.00000.001.507.030.ST_30_minute.csv"
+    ## [118] "NEON.D13.MOAB.DP1.00041.001.00000.003.509.030.ST_30_minute.csv"
+    ## [119] "NEON.D13.MOAB.DP1.00041.001.00000.004.504.001.ST_1_minute.csv" 
+    ## [120] "NEON.D13.MOAB.DP1.00041.001.00000.002.506.001.ST_1_minute.csv" 
+    ## [121] "NEON.D13.MOAB.DP1.00041.001.00000.003.502.001.ST_1_minute.csv" 
+    ## [122] "NEON.D13.MOAB.DP1.00041.001.00000.003.509.001.ST_1_minute.csv" 
+    ## [123] "NEON.D13.MOAB.DP1.00041.001.00000.002.509.030.ST_30_minute.csv"
+    ## [124] "NEON.D13.MOAB.DP1.00041.001.00000.001.501.030.ST_30_minute.csv"
+    ## [125] "NEON.D13.MOAB.DP1.00041.001.00000.004.505.030.ST_30_minute.csv"
+    ## [126] "NEON.D13.MOAB.DP1.00041.001.00000.005.503.030.ST_30_minute.csv"
+    ## [127] "NEON.D13.MOAB.DP1.00041.001.00000.003.503.001.ST_1_minute.csv" 
+    ## [128] "NEON.D13.MOAB.DP1.00041.001.00000.003.507.001.ST_1_minute.csv" 
+    ## [129] "NEON.D13.MOAB.DP1.00041.001.00000.002.505.030.ST_30_minute.csv"
+    ## [130] "NEON.D13.MOAB.DP1.00041.001.00000.002.508.001.ST_1_minute.csv" 
+    ## [131] "NEON.D13.MOAB.DP1.00041.001.00000.001.507.001.ST_1_minute.csv" 
+    ## [132] "NEON.D13.MOAB.DP1.00041.001.00000.002.504.030.ST_30_minute.csv"
+    ## [133] "NEON.D13.MOAB.DP1.00041.001.20170308-20170401.xml"             
+    ## [134] "NEON.D13.MOAB.DP1.00041.001.00000.005.502.001.ST_1_minute.csv" 
+    ## [135] "NEON.D13.MOAB.DP1.00041.001.00000.002.502.030.ST_30_minute.csv"
+    ## [136] "NEON.D13.MOAB.DP1.00041.001.00000.002.503.030.ST_30_minute.csv"
+    ## [137] "NEON.D13.MOAB.DP1.00041.001.00000.004.509.030.ST_30_minute.csv"
+    ## [138] "NEON.D13.MOAB.DP1.00041.001.00000.005.502.030.ST_30_minute.csv"
+    ## [139] "NEON.D13.MOAB.DP1.00041.001.00000.002.501.030.ST_30_minute.csv"
+    ## [140] "NEON.D13.MOAB.DP1.00041.001.00000.003.505.030.ST_30_minute.csv"
+    ## [141] "NEON.D13.MOAB.DP1.00041.001.00000.002.506.030.ST_30_minute.csv"
+    ## [142] "NEON.D13.MOAB.DP1.00041.001.00000.003.505.001.ST_1_minute.csv" 
+    ## [143] "NEON.D13.MOAB.DP1.00041.001.00000.001.508.001.ST_1_minute.csv" 
+    ## [144] "NEON.D13.MOAB.DP1.00041.001.00000.001.505.001.ST_1_minute.csv" 
+    ## [145] "NEON.D13.MOAB.DP1.00041.001.00000.004.509.001.ST_1_minute.csv" 
+    ## [146] "NEON.D13.MOAB.DP1.00041.001.00000.002.503.001.ST_1_minute.csv" 
+    ## [147] "NEON.D13.MOAB.DP1.00041.001.00000.001.503.030.ST_30_minute.csv"
+    ## [148] "NEON.D13.MOAB.DP1.00041.001.00000.005.505.001.ST_1_minute.csv" 
+    ## [149] "NEON.D13.MOAB.DP1.00041.001.00000.005.508.030.ST_30_minute.csv"
+    ## [150] "NEON.D13.MOAB.DP1.00041.001.00000.005.506.030.ST_30_minute.csv"
+    ## [151] "NEON.D13.MOAB.DP1.00041.001.00000.004.507.001.ST_1_minute.csv" 
+    ## [152] "NEON.D13.MOAB.DP1.00041.001.00000.002.501.001.ST_1_minute.csv" 
+    ## [153] "NEON.D13.MOAB.DP1.00041.001.00000.005.503.001.ST_1_minute.csv" 
+    ## [154] "NEON.D13.MOAB.DP1.00041.001.00000.001.502.030.ST_30_minute.csv"
+    ## [155] "NEON.D13.MOAB.DP1.00041.001.00000.005.501.030.ST_30_minute.csv"
+    ## [156] "NEON.D13.MOAB.DP1.00041.001.00000.002.508.030.ST_30_minute.csv"
+    ## [157] "NEON.D13.MOAB.DP1.00041.001.00000.001.505.030.ST_30_minute.csv"
+    ## [158] "NEON.D13.MOAB.DP1.00041.001.00000.004.505.001.ST_1_minute.csv" 
+    ## [159] "NEON.D13.MOAB.DP1.00041.001.00000.005.501.001.ST_1_minute.csv" 
+    ## [160] "NEON.D13.MOAB.DP1.00041.001.00000.004.503.001.ST_1_minute.csv" 
+    ## [161] "NEON.D13.MOAB.DP1.00041.001.00000.003.507.030.ST_30_minute.csv"
+    ## [162] "NEON.D13.MOAB.DP1.00041.001.00000.002.502.001.ST_1_minute.csv" 
+    ## [163] "NEON.D13.MOAB.DP1.00041.001.00000.002.505.001.ST_1_minute.csv" 
+    ## [164] "NEON.D13.MOAB.DP1.00041.001.00000.004.501.001.ST_1_minute.csv" 
+    ## [165] "NEON.D13.MOAB.DP1.00041.001.00000.005.506.001.ST_1_minute.csv" 
+    ## [166] "NEON.D13.MOAB.DP1.00041.001.00000.001.503.001.ST_1_minute.csv" 
+    ## [167] "NEON.D13.MOAB.DP1.00041.001.00000.002.504.001.ST_1_minute.csv" 
+    ## [168] "NEON.D13.MOAB.DP1.00041.001.00000.003.508.030.ST_30_minute.csv"
+    ## [169] "NEON.D13.MOAB.DP1.00041.001.00000.004.502.001.ST_1_minute.csv" 
+    ## [170] "NEON.D13.MOAB.DP1.00041.001.00000.005.507.001.ST_1_minute.csv" 
+    ## [171] "NEON.D13.MOAB.DP1.00041.001.00000.004.508.001.ST_1_minute.csv" 
+    ## [172] "NEON.D13.MOAB.DP1.00041.001.00000.005.507.030.ST_30_minute.csv"
+    ## [173] "NEON.D13.MOAB.DP1.00041.001.00000.005.509.030.ST_30_minute.csv"
+    ## [174] "NEON.D13.MOAB.DP1.00041.001.00000.001.508.030.ST_30_minute.csv"
+    ## [175] "NEON.D13.MOAB.DP1.00041.001.00000.005.505.030.ST_30_minute.csv"
+    ## [176] "NEON.D13.MOAB.DP1.00041.001.00000.001.504.001.ST_1_minute.csv" 
+    ## [177] "NEON.D13.MOAB.DP1.00041.001.00000.001.502.001.ST_1_minute.csv" 
+    ## [178] "NEON.D13.MOAB.DP1.00041.001.00000.003.503.030.ST_30_minute.csv"
+    ## [179] "NEON.D13.MOAB.DP1.00041.001.00000.001.509.001.ST_1_minute.csv" 
+    ## [180] "NEON.D13.MOAB.DP1.00041.001.00000.001.506.030.ST_30_minute.csv"
+    ## [181] "NEON.D13.MOAB.DP1.00041.001.00000.001.501.001.ST_1_minute.csv" 
+    ## [182] "NEON.D13.MOAB.DP1.00041.001.00000.001.506.001.ST_1_minute.csv"
 
 These file names start out the same as the observational files, then 
 are a little more cryptic. The structure is: NEON.[domain number].
@@ -984,11 +1072,16 @@ So NEON.D13.MOAB.DP1.00041.001.00000.002.504.030.ST_30_minute.csv is
 the 30-minute mean of soil temperature at Moab in soil plot 2, 
 4th depth below the surface.
 
+Each file name is listed twice, for the basic and expanded packages. 
+We'll pull out the URL for the plot and depth above by selecting the 
+file name and the word "basic" in the URL.
+
 Go get it:
 
 
     soil.temp <- read.delim(tmp.files$data$files$url
-                            [grep("002.504.030", tmp.files$data$files$name)], sep=",")
+                            [intersect(grep("002.504.030", tmp.files$data$files$name),
+                                       grep("basic", tmp.files$data$files$url))], sep=",")
 
 And again, a plot to show we've downloaded something with data in it:
 
